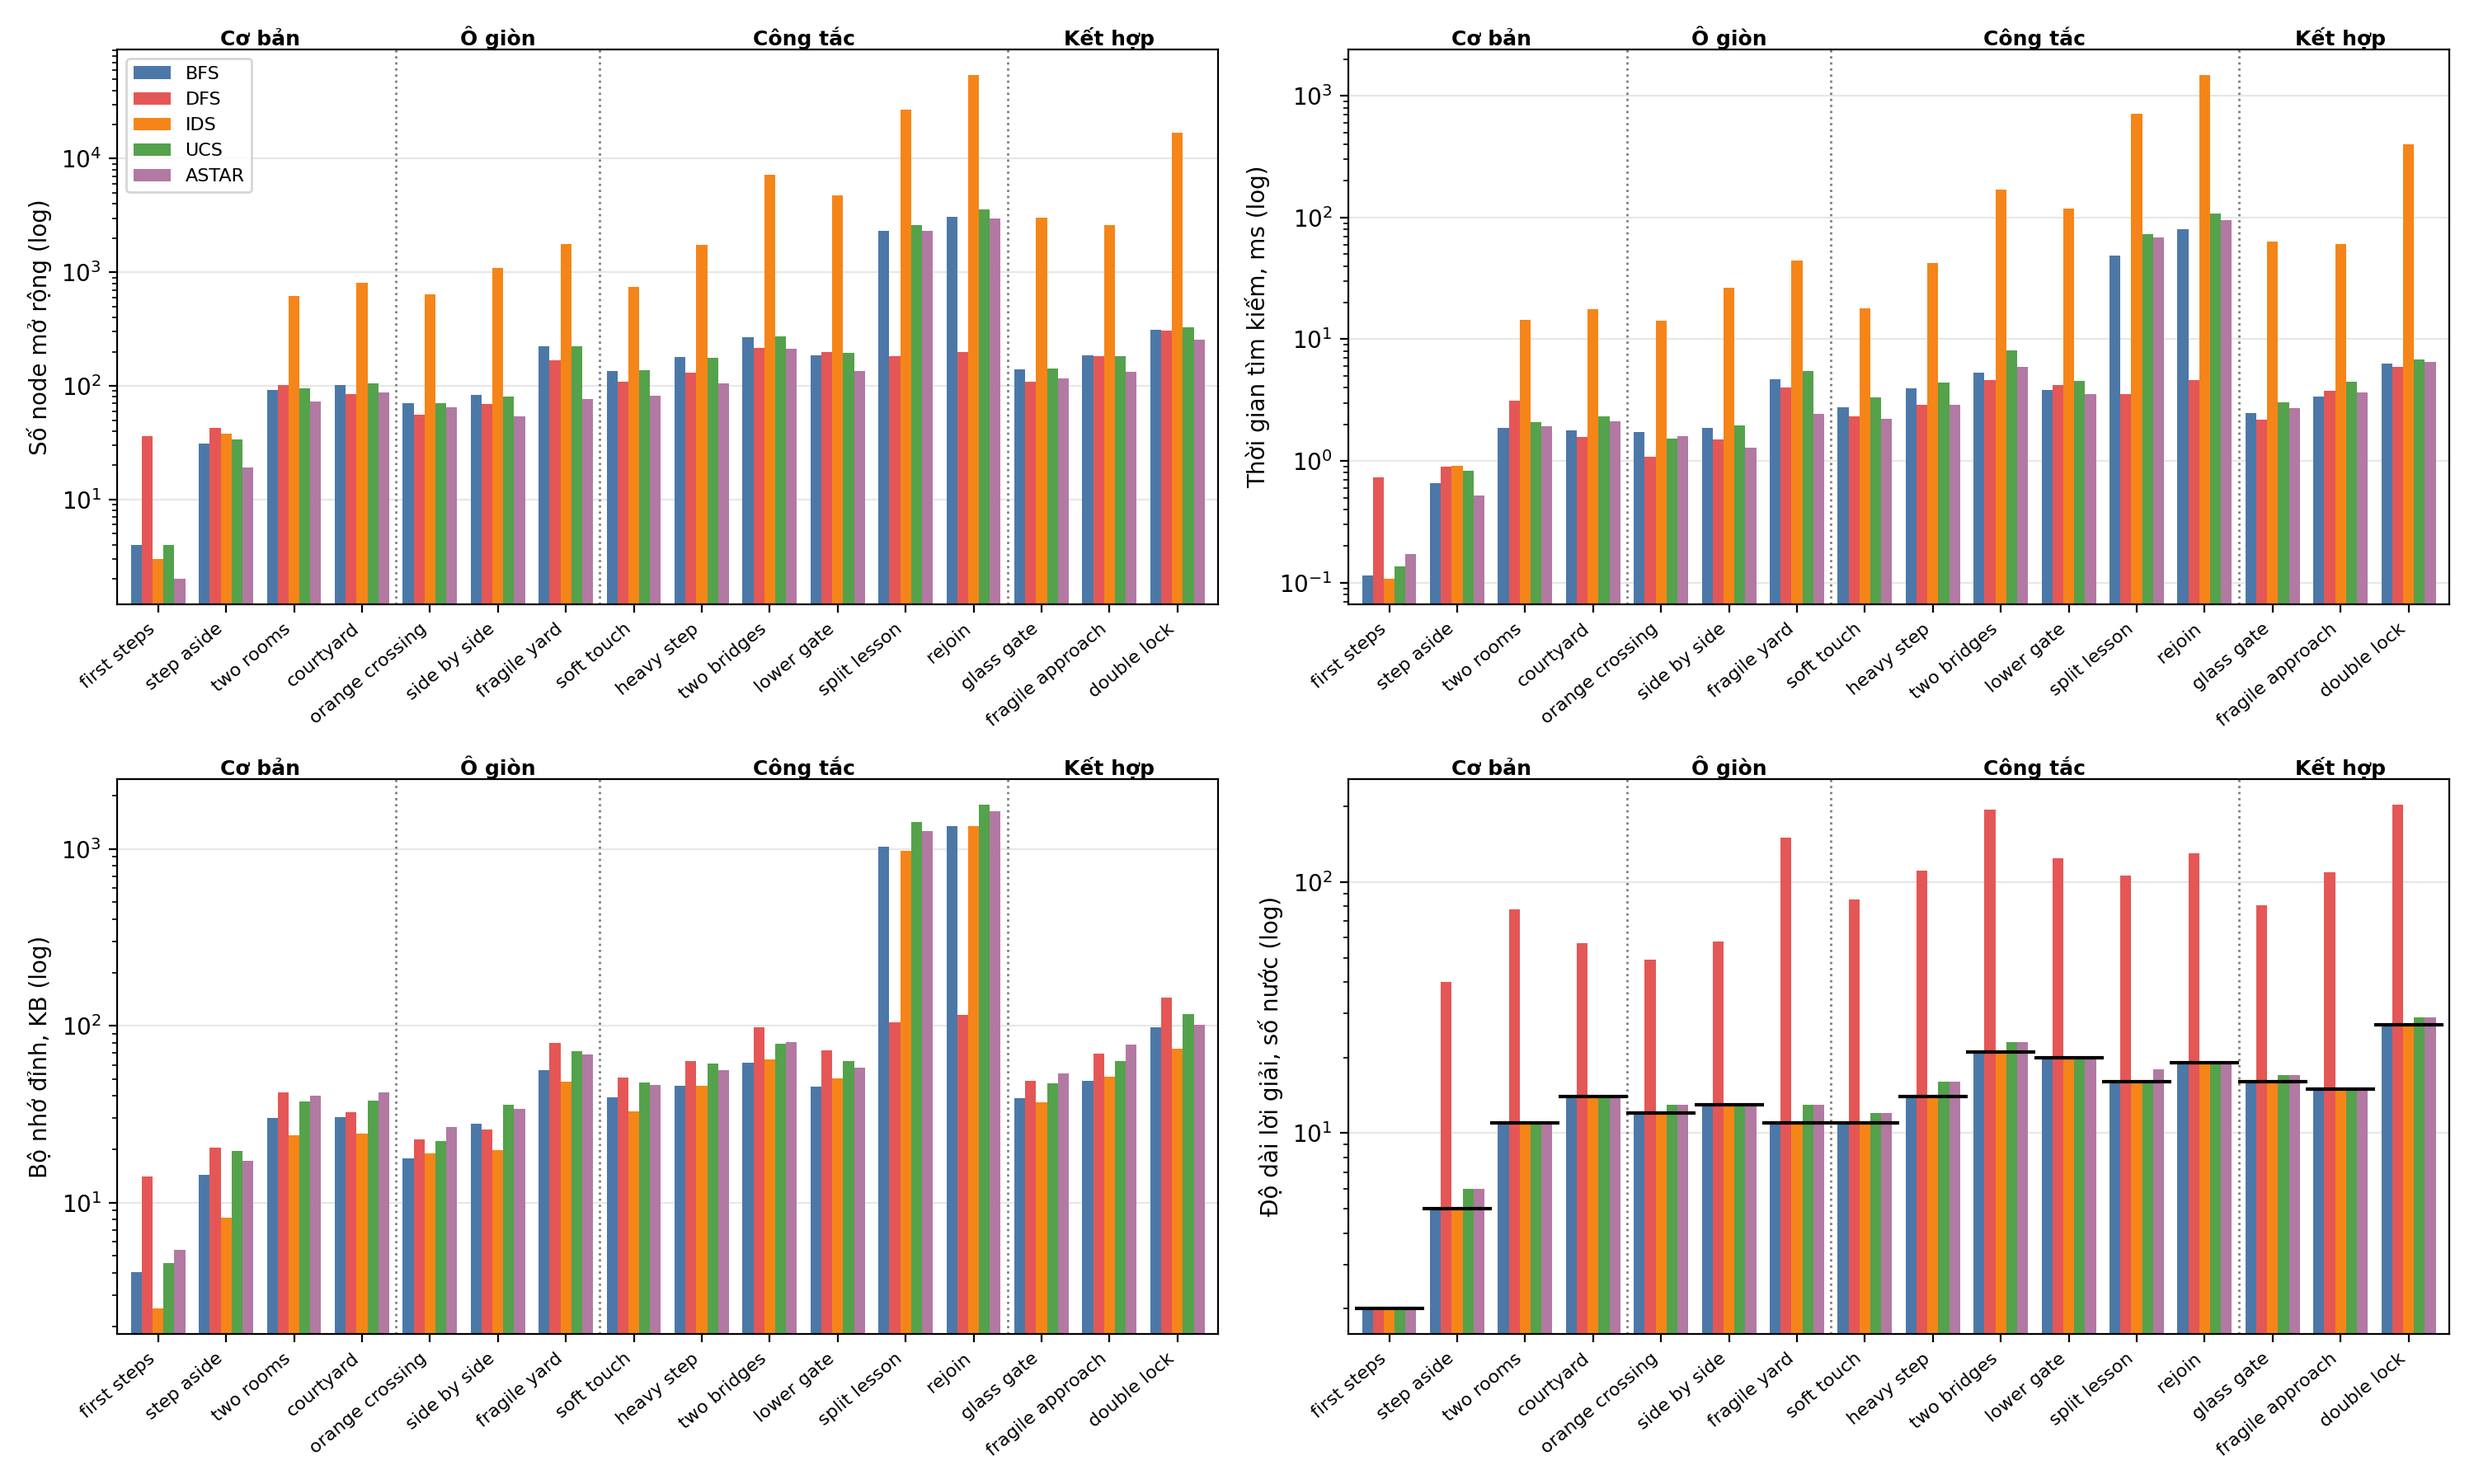
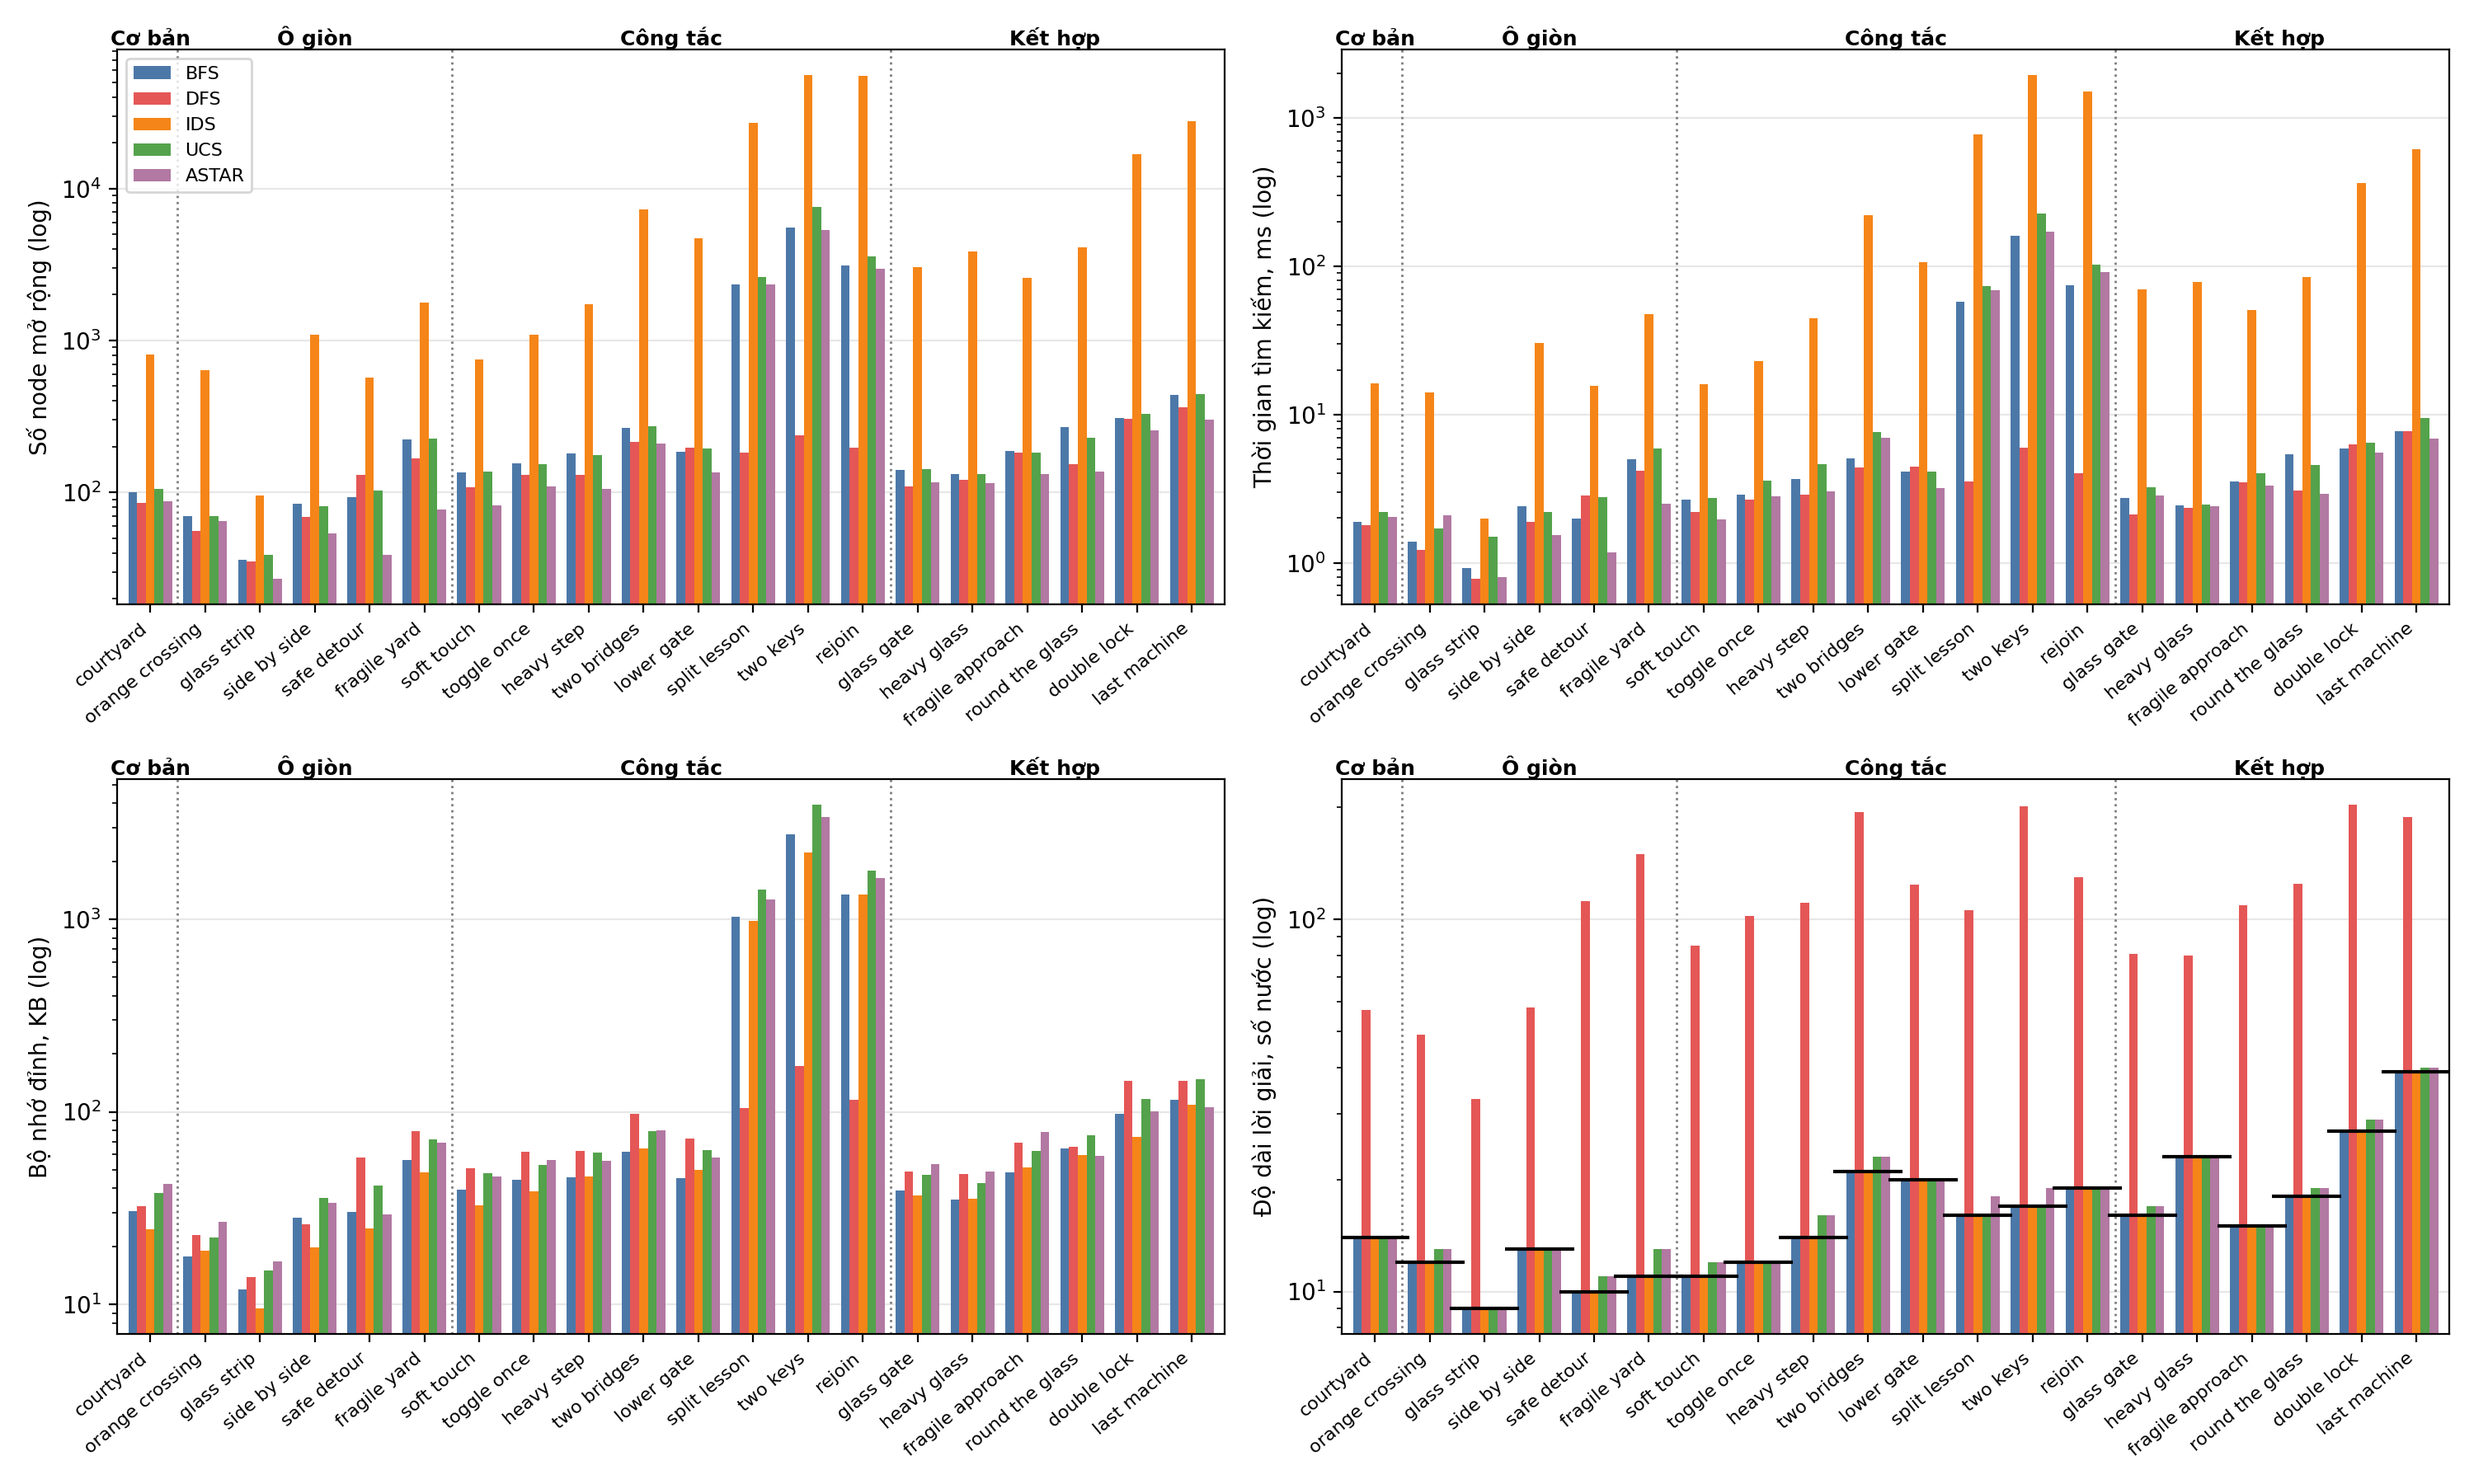
Update levels benchmark and solver

diff --git a/figures/results_tables.md b/figures/results_tables.md
@@ -2,103 +2,123 @@
 
 | Màn | Nhóm | BFS | DFS | IDS | UCS | ASTAR |
 |---|---|---:|---:|---:|---:|---:|
-| 01_basic_first_steps | basic | 4 | 36 | 3 | 4 | 2 |
-| 04_basic_step_aside | basic | 31 | 43 | 38 | 34 | 19 |
-| 06_basic_two_rooms | basic | 92 | 102 | 618 | 95 | 73 |
 | 08_basic_courtyard | basic | 101 | 85 | 806 | 105 | 87 |
 | 09_fragile_orange_crossing | fragile | 70 | 56 | 637 | 70 | 65 |
+| 10_fragile_glass_strip | fragile | 36 | 35 | 96 | 39 | 27 |
 | 11_fragile_side_by_side | fragile | 84 | 69 | 1,096 | 81 | 54 |
+| 12_fragile_safe_detour | fragile | 93 | 131 | 570 | 103 | 39 |
 | 13_fragile_fragile_yard | fragile | 224 | 167 | 1,765 | 225 | 77 |
 | 14_switch_soft_touch | switch | 135 | 108 | 746 | 138 | 82 |
+| 15_switch_toggle_once | switch | 155 | 131 | 1,087 | 154 | 110 |
 | 16_switch_heavy_step | switch | 181 | 130 | 1,734 | 177 | 106 |
 | 17_switch_two_bridges | switch | 267 | 215 | 7,262 | 273 | 211 |
 | 18_switch_lower_gate | switch | 186 | 198 | 4,724 | 194 | 136 |
 | 19_split_split_lesson | switch | 2,336 | 183 | 26,903 | 2,605 | 2,324 |
+| 20_split_two_keys | switch | 5,562 | 239 | 56,061 | 7,607 | 5,359 |
 | 21_split_rejoin | switch | 3,100 | 198 | 54,900 | 3,554 | 2,973 |
 | 22_combined_glass_gate | combined | 141 | 109 | 3,049 | 142 | 116 |
+| 23_combined_heavy_glass | combined | 132 | 121 | 3,833 | 132 | 115 |
 | 24_combined_fragile_approach | combined | 187 | 182 | 2,596 | 183 | 132 |
+| 25_combined_round_the_glass | combined | 270 | 154 | 4,105 | 228 | 138 |
 | 26_combined_double_lock | combined | 310 | 307 | 16,902 | 327 | 255 |
+| 27_combined_last_machine | combined | 438 | 362 | 27,874 | 444 | 302 |
 
 **Thời gian tìm kiếm, ms**
 
 | Màn | Nhóm | BFS | DFS | IDS | UCS | ASTAR |
 |---|---|---:|---:|---:|---:|---:|
-| 01_basic_first_steps | basic | 0.11 | 0.73 | 0.11 | 0.14 | 0.17 |
-| 04_basic_step_aside | basic | 0.66 | 0.89 | 0.92 | 0.83 | 0.52 |
-| 06_basic_two_rooms | basic | 1.86 | 3.14 | 14.42 | 2.10 | 1.91 |
-| 08_basic_courtyard | basic | 1.80 | 1.57 | 17.76 | 2.34 | 2.11 |
-| 09_fragile_orange_crossing | fragile | 1.72 | 1.08 | 14.15 | 1.53 | 1.61 |
-| 11_fragile_side_by_side | fragile | 1.87 | 1.51 | 26.52 | 1.95 | 1.29 |
-| 13_fragile_fragile_yard | fragile | 4.66 | 4.03 | 44.32 | 5.49 | 2.46 |
-| 14_switch_soft_touch | switch | 2.75 | 2.31 | 17.98 | 3.34 | 2.21 |
-| 16_switch_heavy_step | switch | 3.95 | 2.90 | 42.13 | 4.38 | 2.87 |
-| 17_switch_two_bridges | switch | 5.36 | 4.64 | 169 | 8.13 | 5.92 |
-| 18_switch_lower_gate | switch | 3.83 | 4.19 | 119 | 4.57 | 3.53 |
-| 19_split_split_lesson | switch | 48.97 | 3.52 | 707 | 73.53 | 68.96 |
-| 21_split_rejoin | switch | 80.57 | 4.62 | 1,492 | 108 | 94.57 |
-| 22_combined_glass_gate | combined | 2.48 | 2.17 | 63.52 | 3.01 | 2.73 |
-| 24_combined_fragile_approach | combined | 3.37 | 3.77 | 60.65 | 4.48 | 3.65 |
-| 26_combined_double_lock | combined | 6.28 | 5.91 | 399 | 6.84 | 6.47 |
+| 08_basic_courtyard | basic | 1.87 | 1.79 | 16.21 | 2.19 | 2.03 |
+| 09_fragile_orange_crossing | fragile | 1.38 | 1.23 | 14.04 | 1.69 | 2.09 |
+| 10_fragile_glass_strip | fragile | 0.92 | 0.78 | 1.99 | 1.49 | 0.80 |
+| 11_fragile_side_by_side | fragile | 2.41 | 1.89 | 30.45 | 2.19 | 1.55 |
+| 12_fragile_safe_detour | fragile | 1.98 | 2.84 | 15.62 | 2.77 | 1.17 |
+| 13_fragile_fragile_yard | fragile | 4.96 | 4.19 | 47.41 | 5.87 | 2.50 |
+| 14_switch_soft_touch | switch | 2.68 | 2.20 | 16.06 | 2.73 | 1.96 |
+| 15_switch_toggle_once | switch | 2.86 | 2.66 | 22.83 | 3.56 | 2.81 |
+| 16_switch_heavy_step | switch | 3.69 | 2.88 | 44.41 | 4.60 | 3.02 |
+| 17_switch_two_bridges | switch | 5.06 | 4.39 | 220 | 7.58 | 6.99 |
+| 18_switch_lower_gate | switch | 4.13 | 4.44 | 106 | 4.13 | 3.20 |
+| 19_split_split_lesson | switch | 57.77 | 3.51 | 769 | 73.54 | 69.20 |
+| 20_split_two_keys | switch | 159 | 5.99 | 1,952 | 226 | 170 |
+| 21_split_rejoin | switch | 74.03 | 3.99 | 1,509 | 103 | 91.16 |
+| 22_combined_glass_gate | combined | 2.72 | 2.10 | 69.67 | 3.23 | 2.84 |
+| 23_combined_heavy_glass | combined | 2.43 | 2.35 | 77.94 | 2.47 | 2.41 |
+| 24_combined_fragile_approach | combined | 3.54 | 3.47 | 50.34 | 4.02 | 3.32 |
+| 25_combined_round_the_glass | combined | 5.41 | 3.07 | 84.27 | 4.59 | 2.92 |
+| 26_combined_double_lock | combined | 5.88 | 6.30 | 363 | 6.48 | 5.52 |
+| 27_combined_last_machine | combined | 7.70 | 7.74 | 613 | 9.52 | 6.89 |
 
 **Bộ nhớ đỉnh, KB**
 
 | Màn | Nhóm | BFS | DFS | IDS | UCS | ASTAR |
 |---|---|---:|---:|---:|---:|---:|
-| 01_basic_first_steps | basic | 4.02 | 14.02 | 2.52 | 4.55 | 5.38 |
-| 04_basic_step_aside | basic | 14.34 | 20.52 | 8.23 | 19.61 | 17.20 |
-| 06_basic_two_rooms | basic | 30.06 | 41.77 | 24.01 | 37.35 | 40.18 |
 | 08_basic_courtyard | basic | 30.52 | 32.27 | 24.55 | 37.78 | 42.12 |
 | 09_fragile_orange_crossing | fragile | 17.73 | 22.80 | 18.96 | 22.31 | 26.81 |
+| 10_fragile_glass_strip | fragile | 12.00 | 13.85 | 9.51 | 14.93 | 16.77 |
 | 11_fragile_side_by_side | fragile | 28.05 | 25.95 | 19.74 | 35.62 | 33.71 |
+| 12_fragile_safe_detour | fragile | 30.24 | 57.62 | 24.82 | 41.21 | 29.38 |
 | 13_fragile_fragile_yard | fragile | 56.28 | 79.61 | 48.32 | 72.13 | 68.84 |
 | 14_switch_soft_touch | switch | 39.21 | 50.81 | 32.67 | 47.77 | 46.12 |
+| 15_switch_toggle_once | switch | 44.36 | 61.74 | 38.50 | 52.82 | 56.20 |
 | 16_switch_heavy_step | switch | 45.89 | 62.82 | 45.91 | 61.34 | 55.82 |
 | 17_switch_two_bridges | switch | 62.03 | 97.68 | 64.77 | 79.48 | 80.52 |
 | 18_switch_lower_gate | switch | 45.36 | 72.45 | 50.13 | 63.23 | 57.79 |
 | 19_split_split_lesson | switch | 1,033 | 105 | 980 | 1,420 | 1,264 |
+| 20_split_two_keys | switch | 2,770 | 173 | 2,224 | 3,955 | 3,399 |
 | 21_split_rejoin | switch | 1,350 | 115 | 1,349 | 1,786 | 1,636 |
 | 22_combined_glass_gate | combined | 39.09 | 48.80 | 36.91 | 47.20 | 53.45 |
+| 23_combined_heavy_glass | combined | 34.91 | 47.34 | 35.18 | 42.80 | 49.04 |
 | 24_combined_fragile_approach | combined | 48.53 | 69.16 | 51.22 | 62.87 | 78.59 |
+| 25_combined_round_the_glass | combined | 64.73 | 65.71 | 59.41 | 75.71 | 59.22 |
 | 26_combined_double_lock | combined | 97.72 | 144 | 73.94 | 117 | 101 |
+| 27_combined_last_machine | combined | 115 | 145 | 109 | 147 | 106 |
 
 **Độ dài lời giải, số nước**
 
 | Màn | Nhóm | BFS | DFS | IDS | UCS | ASTAR | Tối ưu |
 |---|---|---:|---:|---:|---:|---:|---:|
-| 01_basic_first_steps | basic | 2 | 2 | 2 | 2 | 2 | 2 |
-| 04_basic_step_aside | basic | 5 | 40 | 5 | 6 | 6 | 5 |
-| 06_basic_two_rooms | basic | 11 | 78 | 11 | 11 | 11 | 11 |
 | 08_basic_courtyard | basic | 14 | 57 | 14 | 14 | 14 | 14 |
 | 09_fragile_orange_crossing | fragile | 12 | 49 | 12 | 13 | 13 | 12 |
+| 10_fragile_glass_strip | fragile | 9 | 33 | 9 | 9 | 9 | 9 |
 | 11_fragile_side_by_side | fragile | 13 | 58 | 13 | 13 | 13 | 13 |
+| 12_fragile_safe_detour | fragile | 10 | 112 | 10 | 11 | 11 | 10 |
 | 13_fragile_fragile_yard | fragile | 11 | 150 | 11 | 13 | 13 | 11 |
 | 14_switch_soft_touch | switch | 11 | 85 | 11 | 12 | 12 | 11 |
+| 15_switch_toggle_once | switch | 12 | 102 | 12 | 12 | 12 | 12 |
 | 16_switch_heavy_step | switch | 14 | 111 | 14 | 16 | 16 | 14 |
 | 17_switch_two_bridges | switch | 21 | 194 | 21 | 23 | 23 | 21 |
 | 18_switch_lower_gate | switch | 20 | 124 | 20 | 20 | 20 | 20 |
 | 19_split_split_lesson | switch | 16 | 106 | 16 | 16 | 18 | 16 |
+| 20_split_two_keys | switch | 17 | 202 | 17 | 17 | 19 | 17 |
 | 21_split_rejoin | switch | 19 | 130 | 19 | 19 | 19 | 19 |
 | 22_combined_glass_gate | combined | 16 | 81 | 16 | 17 | 17 | 16 |
+| 23_combined_heavy_glass | combined | 23 | 80 | 23 | 23 | 23 | 23 |
 | 24_combined_fragile_approach | combined | 15 | 109 | 15 | 15 | 15 | 15 |
+| 25_combined_round_the_glass | combined | 18 | 125 | 18 | 19 | 19 | 18 |
 | 26_combined_double_lock | combined | 27 | 204 | 27 | 29 | 29 | 27 |
+| 27_combined_last_machine | combined | 39 | 189 | 39 | 40 | 40 | 39 |
 
 **Chi phí lời giải**
 
 | Màn | Nhóm | BFS | DFS | IDS | UCS | ASTAR | Nhỏ nhất |
 |---|---|---:|---:|---:|---:|---:|---:|
-| 01_basic_first_steps | basic | 4.00 | 4.00 | 4.00 | 4.00 | 4.00 | 4.00 |
-| 04_basic_step_aside | basic | 9.00 | 66.00 | 9.00 | 8.00 | 8.00 | 8.00 |
-| 06_basic_two_rooms | basic | 19.00 | 130 | 19.00 | 19.00 | 19.00 | 19.00 |
 | 08_basic_courtyard | basic | 26.00 | 93.00 | 26.00 | 26.00 | 26.00 | 26.00 |
 | 09_fragile_orange_crossing | fragile | 20.00 | 79.00 | 20.00 | 19.00 | 19.00 | 19.00 |
+| 10_fragile_glass_strip | fragile | 15.00 | 49.00 | 15.00 | 15.00 | 15.00 | 15.00 |
 | 11_fragile_side_by_side | fragile | 21.00 | 92.00 | 21.00 | 21.00 | 21.00 | 21.00 |
+| 12_fragile_safe_detour | fragile | 18.00 | 188 | 18.00 | 17.00 | 17.00 | 17.00 |
 | 13_fragile_fragile_yard | fragile | 19.00 | 244 | 19.00 | 17.00 | 17.00 | 17.00 |
 | 14_switch_soft_touch | switch | 19.00 | 135 | 19.00 | 18.00 | 18.00 | 18.00 |
+| 15_switch_toggle_once | switch | 20.00 | 162 | 20.00 | 20.00 | 20.00 | 20.00 |
 | 16_switch_heavy_step | switch | 24.00 | 177 | 24.00 | 22.00 | 22.00 | 22.00 |
 | 17_switch_two_bridges | switch | 37.00 | 308 | 37.00 | 35.00 | 35.00 | 35.00 |
 | 18_switch_lower_gate | switch | 36.00 | 202 | 36.00 | 36.00 | 36.00 | 36.00 |
 | 19_split_split_lesson | switch | 21.00 | 149 | 21.00 | 21.00 | 21.00 | 21.00 |
+| 20_split_two_keys | switch | 24.00 | 286 | 24.00 | 24.00 | 24.00 | 24.00 |
 | 21_split_rejoin | switch | 26.00 | 185 | 26.00 | 24.00 | 24.00 | 24.00 |
 | 22_combined_glass_gate | combined | 24.00 | 127 | 24.00 | 23.00 | 23.00 | 23.00 |
+| 23_combined_heavy_glass | combined | 35.00 | 128 | 35.00 | 35.00 | 35.00 | 35.00 |
 | 24_combined_fragile_approach | combined | 21.00 | 173 | 21.00 | 21.00 | 21.00 | 21.00 |
+| 25_combined_round_the_glass | combined | 34.00 | 197 | 34.00 | 27.00 | 27.00 | 27.00 |
 | 26_combined_double_lock | combined | 47.00 | 322 | 47.00 | 45.00 | 45.00 | 45.00 |
+| 27_combined_last_machine | combined | 71.00 | 303 | 71.00 | 66.00 | 66.00 | 66.00 |

diff --git a/figures/summary_vs_bfs.md b/figures/summary_vs_bfs.md
@@ -1,8 +1,8 @@
-Tỉ lệ so với BFS (giá trị < 1 nghĩa là tốt hơn BFS), trên 16 màn: min–max (trung vị tb); ≤BFS = số màn solver không tệ hơn BFS.
+Tỉ lệ so với BFS (giá trị < 1 nghĩa là tốt hơn BFS), trên 20 màn: min–max (trung vị tb); ≤BFS = số màn solver không tệ hơn BFS.
 
 | Solver | Node mở rộng | Thời gian | Bộ nhớ đỉnh | Độ dài / tối ưu |
 |---|---|---|---|---|
-| DFS | 0.06–9.00 (tb 0.81); ≤BFS: 12/16 | 0.06–6.42 (tb 0.87); ≤BFS: 11/16 | 0.09–3.48 (tb 1.38); ≤BFS: 3/16 | 1.00–13.64 (tb 6.97); ≤BFS: 1/16 |
-| IDS | 0.75–54.52 (tb 10.55); ≤BFS: 1/16 | 0.94–63.58 (tb 12.41); ≤BFS: 1/16 | 0.57–1.11 (tb 0.90); ≤BFS: 11/16 | 1.00–1.00 (tb 1.00); ≤BFS: 16/16 |
-| UCS | 0.96–1.15 (tb 1.02); ≤BFS: 5/16 | 0.89–1.52 (tb 1.21); ≤BFS: 1/16 | 1.13–1.39 (tb 1.28); ≤BFS: 0/16 | 1.00–1.20 (tb 1.03); ≤BFS: 8/16 |
-| ASTAR | 0.34–0.99 (tb 0.76); ≤BFS: 16/16 | 0.53–1.52 (tb 1.03); ≤BFS: 7/16 | 1.03–1.62 (tb 1.25); ≤BFS: 0/16 | 1.00–1.20 (tb 1.07); ≤BFS: 7/16 |
+| DFS | 0.04–1.41 (tb 0.81); ≤BFS: 18/20 | 0.04–1.43 (tb 0.86); ≤BFS: 16/20 | 0.06–1.91 (tb 1.29); ≤BFS: 4/20 | 3.48–13.64 (tb 6.89); ≤BFS: 0/20 |
+| IDS | 2.67–63.64 (tb 12.28); ≤BFS: 0/20 | 2.16–79.59 (tb 12.97); ≤BFS: 0/20 | 0.70–1.11 (tb 0.93); ≤BFS: 14/20 | 1.00–1.00 (tb 1.00); ≤BFS: 20/20 |
+| UCS | 0.84–1.37 (tb 1.02); ≤BFS: 7/20 | 0.85–1.62 (tb 1.21); ≤BFS: 3/20 | 1.17–1.43 (tb 1.27); ≤BFS: 0/20 | 1.00–1.18 (tb 1.01); ≤BFS: 10/20 |
+| ASTAR | 0.34–0.99 (tb 0.74); ≤BFS: 20/20 | 0.50–1.52 (tb 0.94); ≤BFS: 13/20 | 0.91–1.62 (tb 1.23); ≤BFS: 3/20 | 1.00–1.18 (tb 1.06); ≤BFS: 8/20 |
